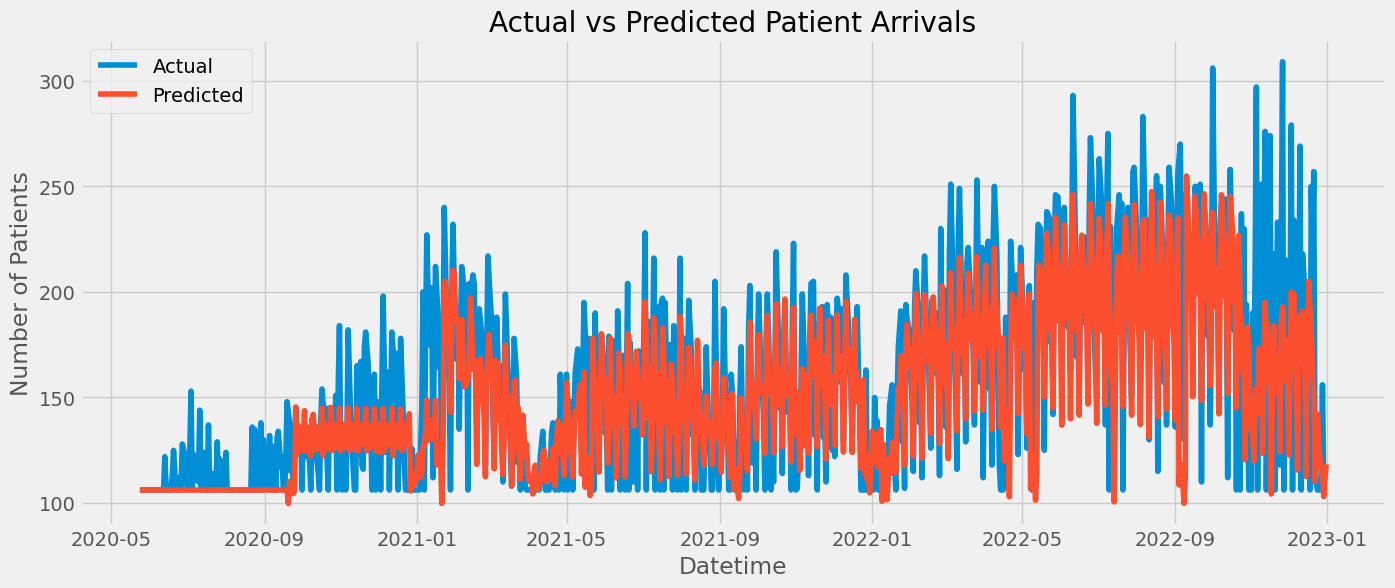
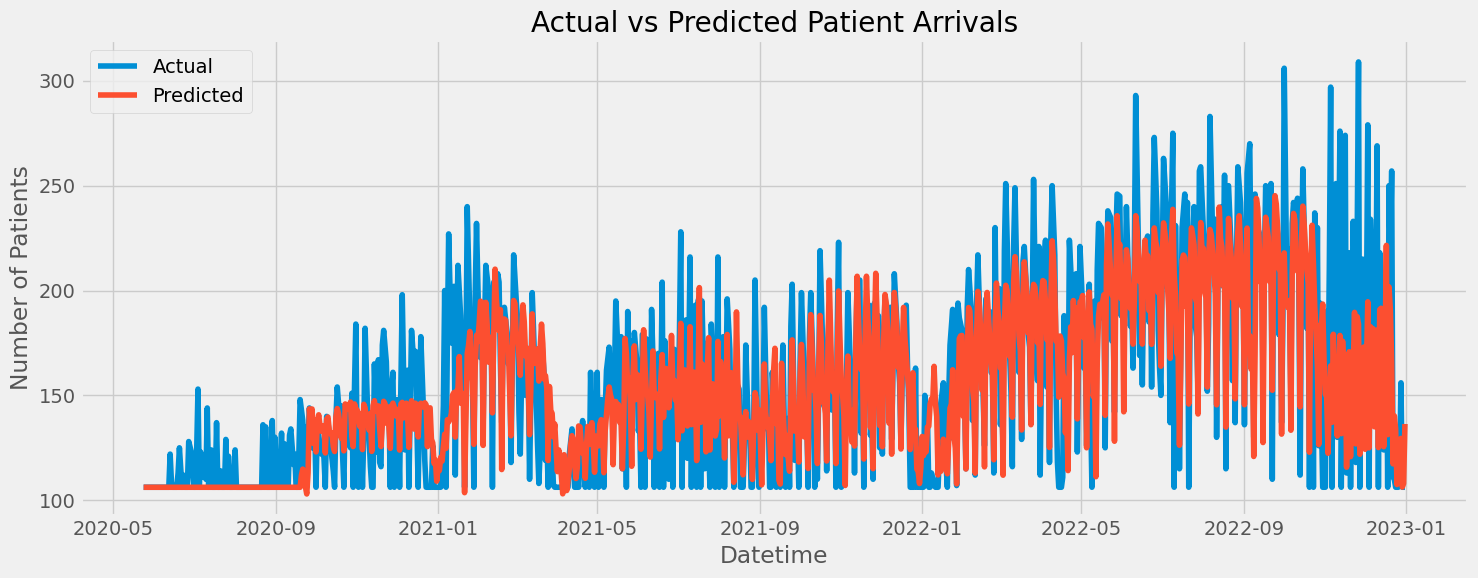
updated README file and added more images

diff --git a/README.md b/README.md
@@ -7,7 +7,7 @@
 This is a data analysis project that aimed to forecast future patient arrivals data on the outpatient unit of Skyline Hospital and Medical Center. The repository is for the data analytics feature of the [appointment management system](thesis-manuscript/appointment_management_system_thesis.pdf) of our bachelor's degree thesis.
 
 > [!NOTE]
-> Click the [NBViewer URL here](https://nbviewer.org/github/jpsam07/skyline-hospital-time-series-forecasting-with-xgboost/blob/86cbdb2ac0be55b8d13a9f4f1c14e0315ddfd7f1/Solution_2.ipynb) for a richer view of the analysis done in a Jupyter Notebook. You can also find the URL itself under the About section of this repository.
+> Click the [NBViewer URL here](https://nbviewer.org/github/jpsam07/skyline-hospital-time-series-forecasting-with-xgboost/blob/d4274475b42aff2f5ab10a121dc4431fe2e2c84a/Solution_2.ipynb) for a richer view of the analysis done in a Jupyter Notebook. You can also find the URL itself under the About section of this repository.
 
 - [Data Collection](#data-collection)
 - [Environment Setup and Data Loading](#environment-setup-and-data-loading)
@@ -49,7 +49,7 @@ The data cleaning methods used in here include:
 
 - Missing value imputation
 
-![](./pictures)
+![Missing Value Imputation](./pictures/missing_value_imputation.gif)
 
 - Outlier analysis
 
@@ -62,28 +62,62 @@ The data cleaning methods used in here include:
 - Added time series features (e.g., day of week, day of year, month, etc.)
 - Added rolling statistics and quantiles
 
+![Time Series Features](./pictures/time_series_features.png)
+
 ## Time Lags Creation
 
 - Added lags in time to let the XGBoost Regressor model learn historical values and the temporal structure of the data.
 
-## Time Series Cross Validation
+![Time Lags](./pictures/time_lags.png)
 
-- Made use of `TimeSeriesSplit` for expanding window cross-validation
-- Created training and validation sets
+## Time Series Cross-Validation
+
+- Made use of `TimeSeriesSplit` to apply Sliding Window Cross-Validation
+
+![Time Series Cross-Validation](./pictures/time_series_cross_validation.png)
+
+- Extracted the features and the target variable.
+- Created training and testing sets
+
+![Training and Testing Sets](./pictures/training_and_testing_sets.png)
 
 ## Model Fitting, Forecasting, and Evaluation
 
-- Fit the XGBoost model on the training
-- Validated on the testing set
-- Generated future patient arrival forecasts
-- Evaluated the model with performance metrics across all the folds with root mean squared error (RMSE), mean absolute percentage error (MAPE), and symmetric mean absolute percentage error (sMAPE).
+- Fit the XGBoost model on the training set
+- Validated on the testing set and plotted the results
 
----
+![Actual vs. Predicted Patient Arrivals](./pictures/actual_vs_predicted_patient_arrivals.png)
+
+- Evaluated the model with performance metrics across all the folds with root mean squared error (RMSE), mean absolute percentage error (MAPE), and symmetric mean absolute percentage error (sMAPE) with a 11% margin of error.
+
+![Model Performance](./pictures/model_performance.png)
+
+- Plotted feature importance
+
+![Feature Importance](./pictures/feature_importance.png)
+
+- Generated future patient arrival forecasts
+
+![Future Patient Arrival Forecasts](./pictures/future_patient_arrival_forecasts.gif)
+
+## Conclusion
+
+- Real world time series data can be extremely dirty. I needed to do things like:
+	- Dropping of irrelevant columns
+	- Renaming of columns
+	-  Merging of duplicate dates
+	- Missing value imputation
+	- Outlier analysis
+- The future patient arrival predictions were able to attain an 11% margin of error when tested on the testing set.
+- Time lag features are crucial for time series forecasting. For this project, the 7-day time lag was the most effective feature in helping the XGBoost model's forecasting ability.
 
 ## Solution Selection
 
-- [Solution 1](https://nbviewer.org/github/jpsam07/skyline-hospital-time-series-forecasting-with-xgboost/blob/0e4cbc6abc432b8f6b2d1a347240c293a1fe6deb/Solution_1.ipynb) discarded the point in time where the missing values have stopped appearing, and built the XGBoost forecasting model from there.
-- [Solution 2](https://nbviewer.org/github/jpsam07/skyline-hospital-time-series-forecasting-with-xgboost/blob/0e4cbc6abc432b8f6b2d1a347240c293a1fe6deb/Solution_2.ipynb) used missing value imputation using linear interpolation to estimate the missing values, and used winsorization to adjust data points that deviate too much from the distribution. Then the XGBoost model was built from there. **This is the favorable solution as the forecast more closely resembles the temporal structure of the time series data** compared to Solution 1.
+- [Solution 1](https://github.com/jpsam07/skyline-hospital-time-series-forecasting-with-xgboost/blob/d4274475b42aff2f5ab10a121dc4431fe2e2c84a/Solution_1.ipynb) discarded the point in time where the missing values have stopped appearing, and built the XGBoost forecasting model from there.
+- [Solution 2](https://nbviewer.org/github/jpsam07/skyline-hospital-time-series-forecasting-with-xgboost/blob/d4274475b42aff2f5ab10a121dc4431fe2e2c84a/Solution_2.ipynb) used missing value imputation with linear interpolation to estimate the missing values, and winsorization to adjust data points that deviate too much from the distribution. Then the XGBoost model was built from there. **This is the favorable solution as the forecast more closely resembles the temporal structure of the time series data** compared to Solution 1.
 
-----
+### References
 
+- Rob Mulla. (2022, August 7). _Time Series Forecasting with XGBoost - Advanced Methods_ [Video]. YouTube. https://www.youtube.com/watch?v=z3ZnOW-S550
+
+- Robikscube. (2022, August 1). _PT2: Time Series Forecasting with XGBoost_. Kaggle. https://www.kaggle.com/code/robikscube/pt2-time-series-forecasting-with-xgboost/notebook
